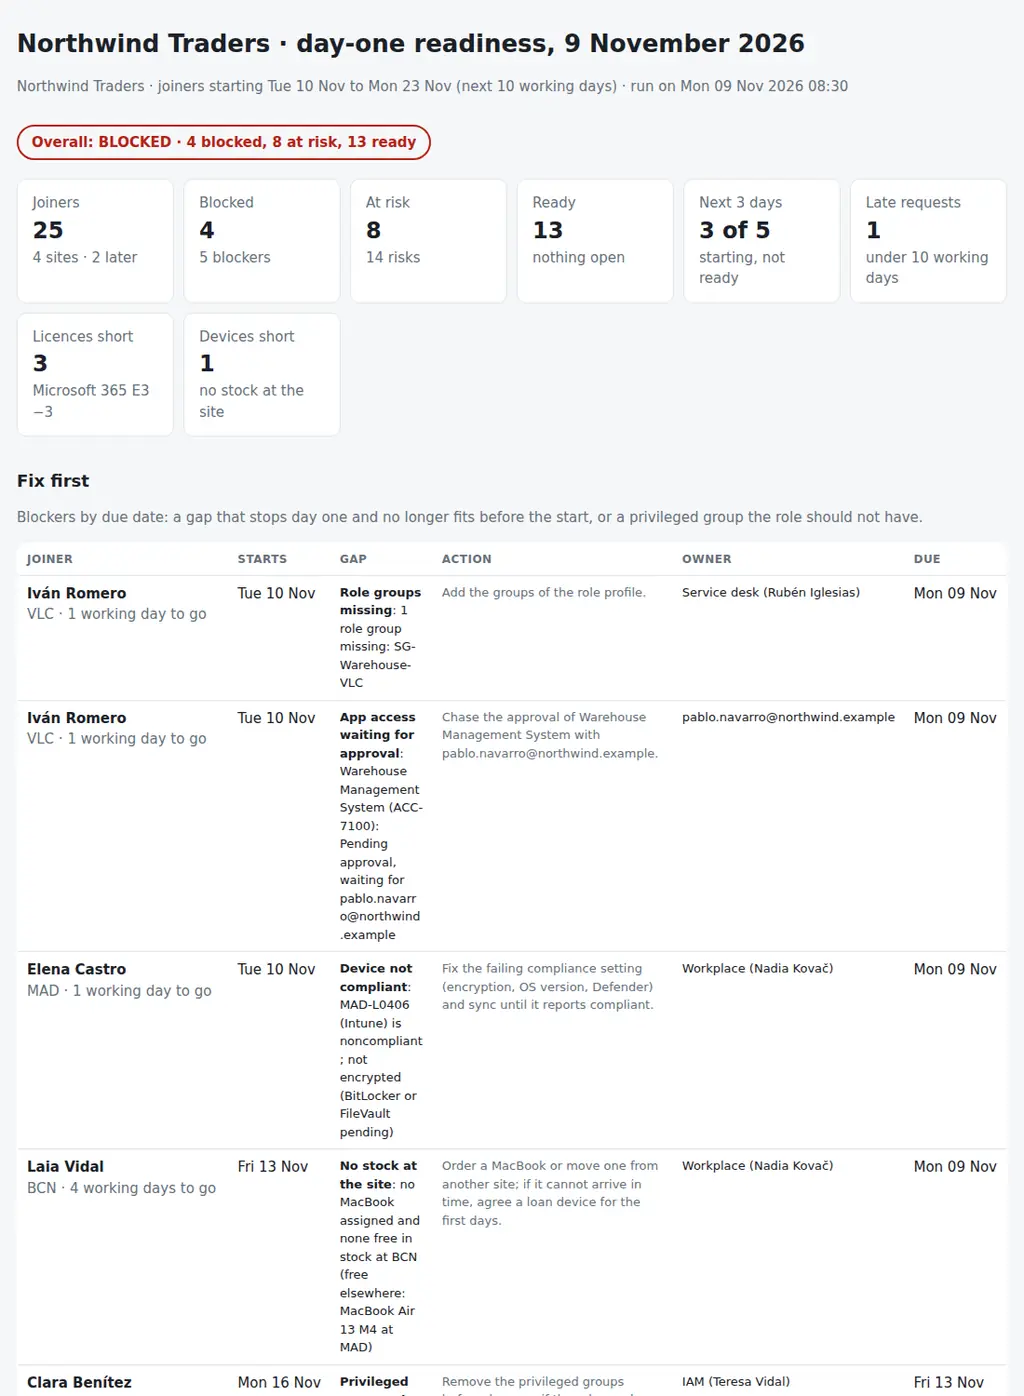
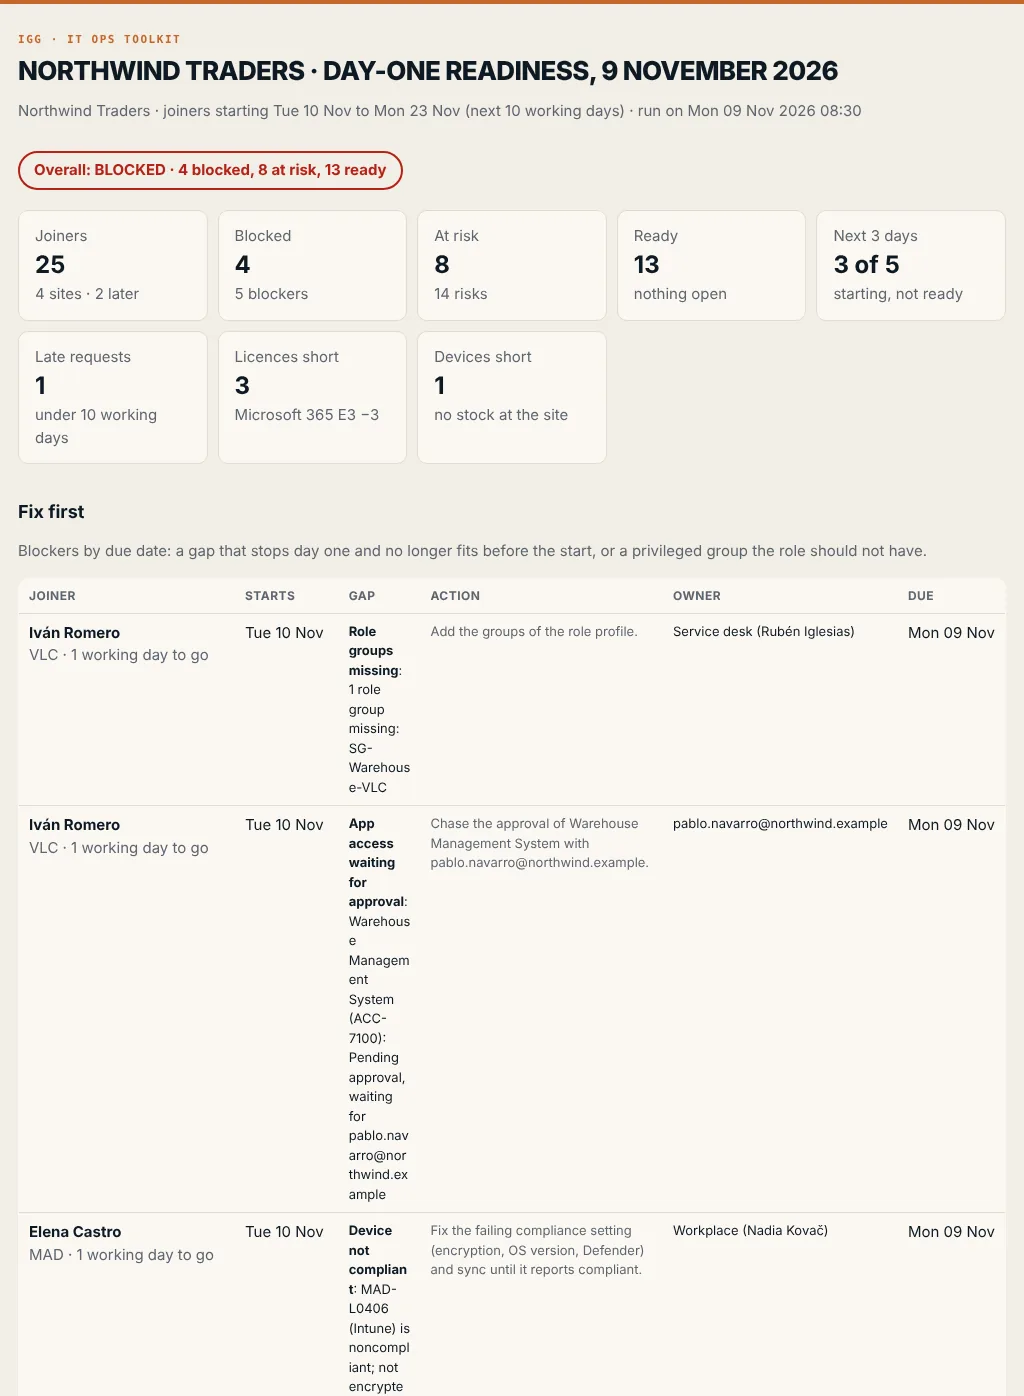
Report: IGG colours (paper, ink and the orange accent) and a new screenshot

diff --git a/dayone/report.py b/dayone/report.py
@@ -182,11 +182,11 @@ def pack_md(d: Data, rv: dict, findings: list[Finding], title: str) -> str:
 # ---------------------------------------------------------------- html
 
 CSS = """
-:root{--bg:#f6f7f8;--card:#fff;--ink:#1b2128;--muted:#66717c;--line:#e2e5e9;--ok:#1e7a4c;--warn:#a46200;--bad:#b42318;--info:#0b6bcb;
---g:#dff3e8;--a:#fdf0d5;--r:#fbe0dd;--n:#eef0f2}
-@media (prefers-color-scheme:dark){:root{--bg:#13171b;--card:#1b2127;--ink:#e7eaee;--muted:#9aa5b0;--line:#2b333b;--ok:#4cc38a;--warn:#f0a83a;
---bad:#f2685c;--info:#5aa9f0;--g:#173527;--a:#3d2f12;--r:#45201d;--n:#232a31}}
-*{box-sizing:border-box}body{margin:0;background:var(--bg);color:var(--ink);font:15px/1.5 system-ui,-apple-system,Segoe UI,sans-serif}
+:root{--bg:#f2eee6;--card:#fbf8f3;--ink:#0e1a24;--muted:#5d6670;--line:#e2dccf;--ok:#1e7a4c;--warn:#a46200;--bad:#b42318;--info:#1f5f8b;
+--g:#dff3e8;--a:#fdf0d5;--r:#fbe0dd;--n:#e8e2d6}
+@media (prefers-color-scheme:dark){:root{--bg:#0e1a24;--card:#142331;--ink:#f2eee6;--muted:#a9b3bb;--line:#24364a;--ok:#4cc38a;--warn:#f0a83a;
+--bad:#f2685c;--info:#5aa9f0;--g:#173527;--a:#3d2f12;--r:#45201d;--n:#1b2b3b}}
+*{box-sizing:border-box}body{border-top:4px solid #c4672b}h1{font-weight:800;letter-spacing:-.025em;text-transform:uppercase;line-height:1.05}h1::before{content:"IGG · IT Ops toolkit";display:block;font:600 11px/1.4 ui-monospace,SFMono-Regular,Menlo,monospace;letter-spacing:.14em;text-transform:uppercase;color:#c4672b;margin-bottom:10px}body{margin:0;background:var(--bg);color:var(--ink);font:15px/1.5 system-ui,-apple-system,Segoe UI,sans-serif}
 main{max-width:1100px;margin:0 auto;padding:28px 18px 60px}h1{font-size:26px;margin:0 0 4px}h2{font-size:18px;margin:34px 0 12px}h3{font-size:15px;margin:0}
 .muted{color:var(--muted)}.tiles{display:grid;grid-template-columns:repeat(auto-fit,minmax(160px,1fr));gap:10px;margin-top:20px}
 .tile{background:var(--card);border:1px solid var(--line);border-radius:10px;padding:14px 16px}.tile b{display:block;font-size:24px}
